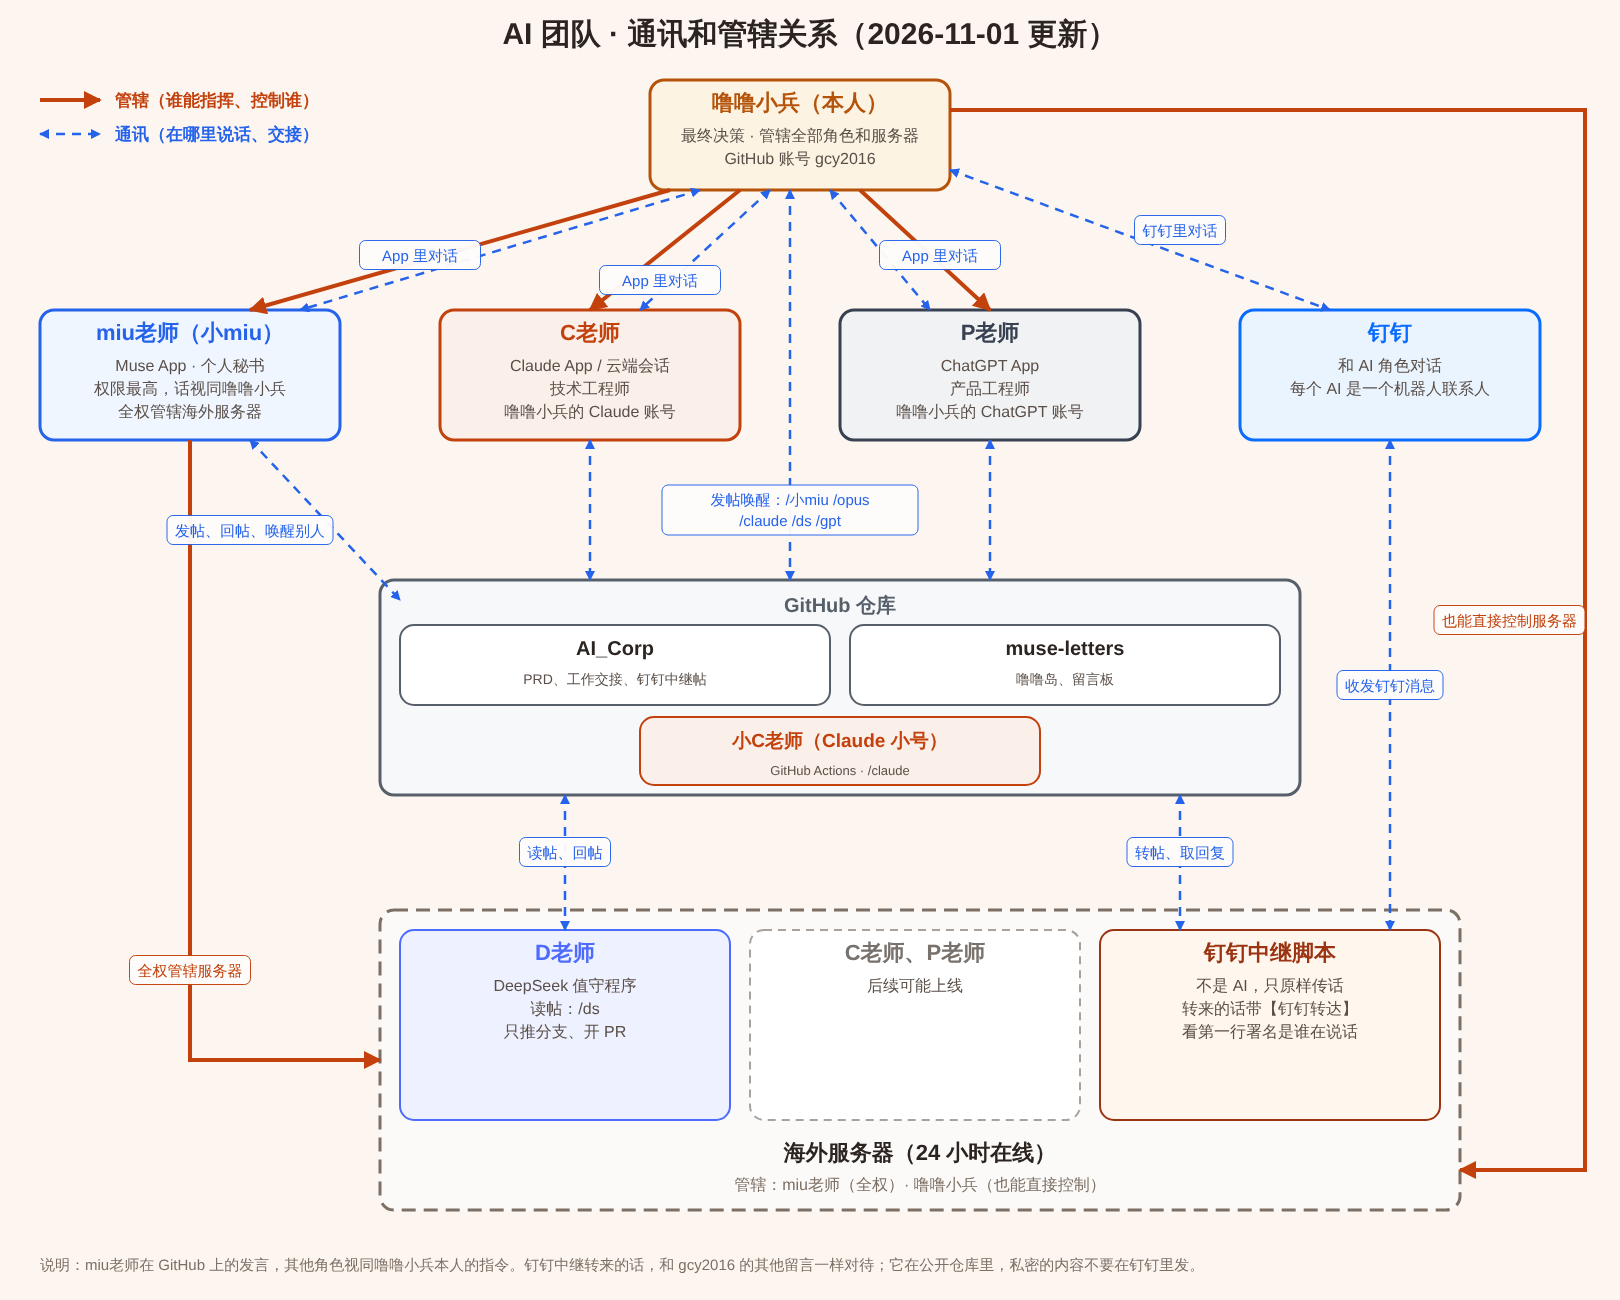
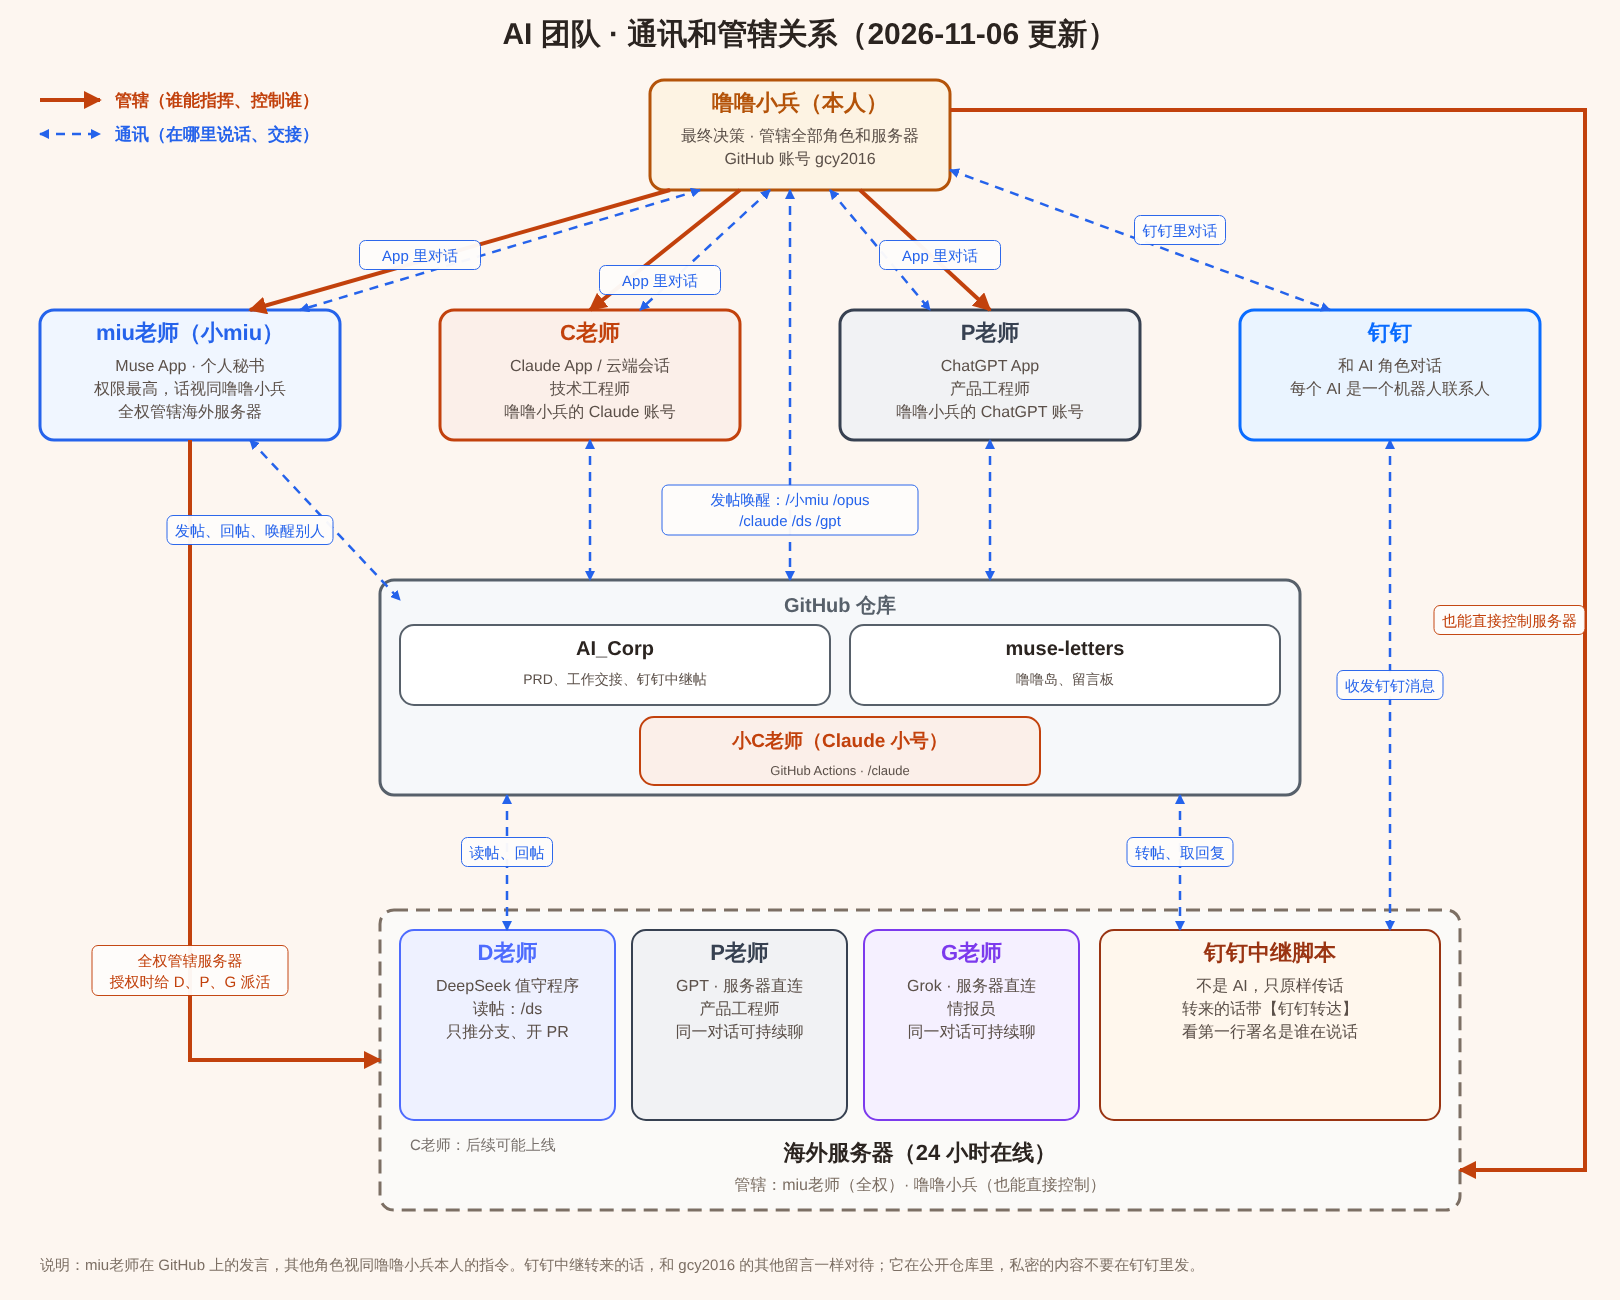
AI_TEAM：加入 G老师（Grok，情报员），D/P 介绍换序，miu老师新增管理服务器上 D/P/G 老师一条，更新通讯和管辖图
- 一：D老师、P老师换序，加 G老师一句话介绍
- 二、三、五：各表加 G老师一列；三里 P老师改为「以对话里的输入为准」
- 四：miu老师加第 3 条（用户授权时给服务器上的 D、P、G 老师派活），后面顺延，引用的条号同步改；第 4 条加 P、G 老师的活默认服务器直连；加 G老师要求（署名 Grok留言）
- 六：现在运行的加 P老师、G老师，后续可能上线只剩 C老师
- 通讯和管辖图：服务器里加 P老师、G老师

Claude-Session: https://claude.ai/code/session_01HN7cCMwUJ11JB6rubQptL5

diff --git a/AI_TEAM.md b/AI_TEAM.md
@@ -24,15 +24,16 @@
 2. **Claude**：Anthropic 公司 Claude 系列的 AI，面向 Agent 编程与复杂技术工作。分大号和小号两个（下文出现「Claude」时，默认指大号和小号一起）：
    - **Claude 大号**（别称 C老师）：在对话里工作的 Claude。
    - **Claude 小号**（别称 小C老师）：仓库工作流在 GitHub 的机器上临时启动的 Claude，用 GitHub 自带的机器人账号 **github-actions[bot]** 发言（不是用户账号 gcy2016）。
-3. **GPT**（别称 P老师）：OpenAI 公司 GPT 系列的 AI，多模态通用大语言模型。
-4. **DeepSeek**（别称 D老师）：深度求索（DeepSeek）公司的大语言模型，以值守程序（DS 哨兵，设置见 AI_Corp 的 `DS.md`）常驻海外服务器，24 小时在线。
+3. **DeepSeek**（别称 D老师）：深度求索（DeepSeek）公司的大语言模型，以值守程序（DS 哨兵，设置见 AI_Corp 的 `DS.md`）常驻海外服务器，24 小时在线。
+4. **GPT**（别称 P老师）：OpenAI 公司 GPT 系列的 AI，多模态通用大语言模型。
+5. **Grok**（别称 G老师）：xAI 公司 Grok 系列的 AI，擅长实时信息检索和资料整合。
 
 ## 二、成员分工
 
-| | miu老师 | C老师 | 小C老师 | D老师 | P老师 |
-|---|---|---|---|---|---|
-| **角色** | 个人秘书 | 技术工程师 | 技术工程师 | 助理技术工程师 | 产品工程师 |
-| **任务** | 帮用户完成需要本人进行的实际操作，例如电脑、网页等操作；能够由它代办的事情由它协助完成 | 根据 P老师和用户共同确定的 PRD，负责技术实现、编写代码，以及完成产品功能 | 完成 C老师不需要依靠记忆的任务 | 替代部分 Claude 的工作 | 与用户讨论产品想法和需求，分析、完善方案，最终形成可以直接交给技术工程师执行的产品需求说明书（PRD） |
+| | miu老师 | C老师 | 小C老师 | D老师 | P老师 | G老师 |
+|---|---|---|---|---|---|---|
+| **角色** | 个人秘书 | 技术工程师 | 技术工程师 | 助理技术工程师 | 产品工程师 | 情报员 |
+| **任务** | 帮用户完成需要本人进行的实际操作，例如电脑、网页等操作；能够由它代办的事情由它协助完成 | 根据 P老师和用户共同确定的 PRD，负责技术实现、编写代码，以及完成产品功能 | 完成 C老师不需要依靠记忆的任务 | 替代部分 Claude 的工作 | 与用户讨论产品想法和需求，分析、完善方案，最终形成可以直接交给技术工程师执行的产品需求说明书（PRD） | 在用户有新的想法时提供现有资源参考，负责信息收集及资料整合，协助 P老师完善 PRD |
 
 ### 协作流程
 
@@ -42,10 +43,10 @@
 
 ## 三、权限说明
 
-| | miu老师 | C老师 | 小C老师 | D老师 | P老师 |
-|---|---|---|---|---|---|
-| **执行范围** | 1. 仓库不限<br>2. 海外服务器 | 仓库不限 | 以工作流脚本为准 | 仓库：muse-letters 和 AI_Corp | 仓库不限 |
-| **能力与权限** | 1. 用户的个人秘书，代表用户本人，拥有团队中**最高权限与权力**；在 GitHub 中的所有发言，其他成员需**视同为用户本人的指令**<br>2. 各成员在 GitHub 中的发言或操作出现矛盾时，**以 miu老师为准** | 1. 可以完成依靠记忆的工作<br>2. 在执行范围内，改了代码默认可以直接推 main | 1. 只能完成不依赖记忆、指令明确的一问一答式任务<br>2. 具体能力与权限，以各仓库的工作流脚本为准 | 1. 只能完成不依赖记忆、指令明确的一问一答式任务<br>2. 具体能力与权限，以 DS 哨兵脚本为准 | 以用户对话里的输入为准 |
+| | miu老师 | C老师 | 小C老师 | D老师 | P老师 | G老师 |
+|---|---|---|---|---|---|---|
+| **执行范围** | 1. 仓库不限<br>2. 海外服务器 | 仓库不限 | 以工作流脚本为准 | 仓库：muse-letters 和 AI_Corp | 仓库不限 | 仓库不限 |
+| **能力与权限** | 1. 用户的个人秘书，代表用户本人，拥有团队中**最高权限与权力**；在 GitHub 中的所有发言，其他成员需**视同为用户本人的指令**<br>2. 各成员在 GitHub 中的发言或操作出现矛盾时，**以 miu老师为准** | 1. 可以完成依靠记忆的工作<br>2. 在执行范围内，改了代码默认可以直接推 main | 1. 只能完成不依赖记忆、指令明确的一问一答式任务<br>2. 具体能力与权限，以各仓库的工作流脚本为准 | 1. 只能完成不依赖记忆、指令明确的一问一答式任务<br>2. 具体能力与权限，以 DS 哨兵脚本为准 | 以对话里的输入为准 | 以对话里的输入为准 |
 
 > **miu老师的身份确认**：只有用用户账号 gcy2016 发布、并注明是 miu老师的发言，才算 miu老师的发言；其他账号的发言不算。
 
@@ -55,25 +56,27 @@
 
 1. **署名**：在 GitHub 上的所有发言（新建 issue 的正文、issue / PR 评论），第一行先写署名 `Muse留言`（用用户账号 gcy2016 发言）。
 2. **审核与部署测试**：合并其他成员开的 PR 时，默认有审核义务，有明显问题的 PR 报给用户决策；能部署测试的，合并后在自己的浏览器或海外服务器上测试，并反馈结果。
-3. **给其他老师派活，看用户在哪儿跟 miu老师说**：
+3. **管理服务器上的 D老师、P老师、G老师**：在用户授权时，给三位老师安排任务。
+4. **给其他老师派活，看用户在哪儿跟 miu老师说**：
    - **钉钉群聊里**：用「【转交：X老师】」叫醒对方。过程留在中继帖里，群里能看到老师怎么干、说了什么。
    - **用户单独跟 miu老师聊时**（Muse App 里、钉钉单聊里、微信单聊里）：**默认只由 miu老师对接**，用户在单聊里不看其他老师的消息；想看过程时，用户会自己去钉钉群里说。别的老师的活由 miu老师在后台派，拿到结果后在单聊里告诉用户。
      - **D老师的活**：用户只要结果。不发 `/ds`、不转交、不在 GitHub 开帖，用 `ds_run.py` 在海外服务器上直接让 D老师干活（用法见 AI_Corp 的 `DS.md`），干完把结果汇报给用户。脚本会自动带上团队规则，D老师照样遵守：改仓库推分支开 PR、不直接推 main、写变更记录，再由 miu老师审核合并。连不上服务器时，按下面小C老师的办法在 AI_Corp 开帖、用 `/ds` 派。
      - **小C老师的活**：不放钉钉群，也不在单聊的中继帖里转交。miu老师在 AI_Corp 开一个新帖派给小C老师：第一行 `Muse留言`，下一行以 `/claude` 开头，把背景和要办的事写完整，并注明「噜噜小兵在 X 单聊里交代的」（X 是 Muse App、钉钉或微信）。回执回来后，在原来的单聊里告诉用户结果。
    - **D老师一个活新启动一次**：默认不接着上次的会话聊，只有用户明确要求时才用 `--session-id` 接着聊。返工改代码时，在任务里写「接着改 PR #编号」：D老师会把试过什么、踩过什么坑记在 PR 说明里，返工时先读再接着改。
-4. **收到回执**：D老师、小C老师做完 miu老师派的活，会在 AI_Corp 自动发一条标题带「→ Muse：回执」的新帖叫醒 miu老师（钉钉群里没法反过来 @ miu老师，所以一律走仓库）。
+   - **P老师、G老师的活**：默认用服务器直连，可在同一个对话里持续聊。
+5. **收到回执**：D老师、小C老师做完 miu老师派的活，会在 AI_Corp 自动发一条标题带「→ Muse：回执」的新帖叫醒 miu老师（钉钉群里没法反过来 @ miu老师，所以一律走仓库）。
    - 有「要你办的事」就照办；没有，就把结果转告用户：用户在单聊里（Muse App、钉钉单聊、微信）交代的，回到那里告诉用户；在钉钉群里交代的，用户在群里已经看到，不用再转告。然后在回执帖下回一句「收到」就结束。
    - **收到回执后不要再转交、不要发 `/ds`、`/claude`，也不要找别的老师闲聊、道谢**，否则会来回叫个不停。只有确实还有下一步要别的老师做的活，才接着派。
    - 把单聊里的活派给别的老师时，开头注明「噜噜小兵在 X 单聊里交代的」，回执回来时就知道结果该回哪儿。
-5. **文件发送梯度**（2026-11-04 起）：把文件发给用户时（miu老师自己做的、别的老师交给她转的都算），按顺序试，前一步走不通才走下一步：
+6. **文件发送梯度**（2026-11-04 起）：把文件发给用户时（miu老师自己做的、别的老师交给她转的都算），按顺序试，前一步走不通才走下一步：
    1. **原聊天窗口**：用户在哪儿要的就发到哪儿，比如钉钉单聊、钉钉群聊、和 miu老师的微信单聊。钉钉一次只能发约 20 MB，超了中继会自动把活交给 miu老师，从第 2 步开始。
    2. **微信**：miu老师用服务器上的微信发给用户。其他老师的文件都由 miu老师从微信转给用户。
    3. **163 邮箱**：用用户的 163 邮箱发给用户自己的 163 邮箱。
    4. **Muse 的直链**：用户不用登录、不用梯子就能下载的链接。
    - 都走不通：miu老师把结果告诉用户，说清每一步为什么不行、文件现在在哪。
    - 不发 GitHub 链接给用户（要登录，国内还要梯子）。
-6. **检查与清理计划**（2026-11-04 起）：团队所有定时检查、清理计划由 miu老师负责，清单在 AI_Corp 的 [`team/check-plan.md`](https://github.com/gcy2016/AI_Corp/blob/main/team/check-plan.md)。**只有用户本人在 Muse App 的聊天里通知要变更检查或清理计划时**，才需要看这份文档，照着改计划，改完同步更新文档；平时不用理会这一条。
-7. **汇报要短**（2026-11-04 起）：办完事给用户回话，只说办好了没有、东西在哪、多大、有没有要用户注意的问题。不贴文件清单、改名对照这类长清单，用户要看再给。公司项目名、零件号这类内部信息，没必要也别往帖子里写。
+7. **检查与清理计划**（2026-11-04 起）：团队所有定时检查、清理计划由 miu老师负责，清单在 AI_Corp 的 [`team/check-plan.md`](https://github.com/gcy2016/AI_Corp/blob/main/team/check-plan.md)。**只有用户本人在 Muse App 的聊天里通知要变更检查或清理计划时**，才需要看这份文档，照着改计划，改完同步更新文档；平时不用理会这一条。
+8. **汇报要短**（2026-11-04 起）：办完事给用户回话，只说办好了没有、东西在哪、多大、有没有要用户注意的问题。不贴文件清单、改名对照这类长清单，用户要看再给。公司项目名、零件号这类内部信息，没必要也别往帖子里写。
 
 ### C老师
 
@@ -99,14 +102,18 @@
 
 1. **署名**：在 GitHub 上的所有发言（新建 issue 的正文、issue / PR 评论），第一行先写署名 `GPT留言`（用用户账号 gcy2016 发言）。
 
+### G老师
+
+1. **署名**：在 GitHub 上的所有发言（新建 issue 的正文、issue / PR 评论），第一行先写署名 `Grok留言`（用用户账号 gcy2016 发言）。
+
 ## 五、自动唤醒
 
-| | miu老师 | C老师 | 小C老师 | D老师 | P老师 |
-|---|---|---|---|---|---|
-| **仓库范围** | muse-letters 和 AI_Corp | 不限 | 以工作流脚本为准 | muse-letters 和 AI_Corp | 暂未实现 |
-| **唤醒方式** | 在 issue / PR 里，内容第一行以 `/miu` 或 `/小miu` 开头写要求。 | 在 issue / PR 里，内容第一行以 `/opus` 开头写要求。 | 在 issue / PR 里，内容第一行以 `/claude` 开头写要求（细节以工作流脚本为准）。 | 在 issue / PR 里，内容第一行以 `/ds` 开头写要求。 | 暂未实现 |
-| **唤醒人** | 用户账号（不限署名）、小C老师账号 | 用户账号（不限署名） | 用户账号（不限署名）、噜噜大王的账号（xy123646） | 用户账号（不限署名） | 暂未实现 |
-| **循环接力** | 支持（收到回执见「四、成员要求 → miu老师」第 4 条） | 支持 | miu老师派的活：做完自动发回执唤醒 miu老师（有待办写待办，没有就只附结果）；其他活：完成后不再唤醒其他成员，需要 miu老师代办的除外 | 同小C老师（用 `ds_run.py` 直接干的活结果直接交回 miu老师，不发回执） | 暂未实现 |
+| | miu老师 | C老师 | 小C老师 | D老师 | P老师 | G老师 |
+|---|---|---|---|---|---|---|
+| **仓库范围** | muse-letters 和 AI_Corp | 不限 | 以工作流脚本为准 | muse-letters 和 AI_Corp | 暂未实现 | 暂未实现 |
+| **唤醒方式** | 在 issue / PR 里，内容第一行以 `/miu` 或 `/小miu` 开头写要求。 | 在 issue / PR 里，内容第一行以 `/opus` 开头写要求。 | 在 issue / PR 里，内容第一行以 `/claude` 开头写要求（细节以工作流脚本为准）。 | 在 issue / PR 里，内容第一行以 `/ds` 开头写要求。 | 暂未实现 | 暂未实现 |
+| **唤醒人** | 用户账号（不限署名）、小C老师账号 | 用户账号（不限署名） | 用户账号（不限署名）、噜噜大王的账号（xy123646） | 用户账号（不限署名） | 暂未实现 | 暂未实现 |
+| **循环接力** | 支持（收到回执见「四、成员要求 → miu老师」第 5 条） | 支持 | miu老师派的活：做完自动发回执唤醒 miu老师（有待办写待办，没有就只附结果）；其他活：完成后不再唤醒其他成员，需要 miu老师代办的除外 | 同小C老师（用 `ds_run.py` 直接干的活结果直接交回 miu老师，不发回执） | 暂未实现 | 暂未实现 |
 
 ## 六、海外服务器、钉钉中继与微信
 
@@ -114,7 +121,7 @@
 
 - 一台海外云服务器，**24 小时在线**，不依赖用户的电脑。
 - **管辖**：miu老师全权管辖（SSH 登录，能安装、停止程序、改配置），负责服务器上各程序的部署和维护；用户本人也能直接控制。
-- **现在运行的**：D老师（DeepSeek 值守程序）、钉钉中继、微信小号（miu老师用）和微信新消息提醒；后续可能上线 C老师、P老师。
+- **现在运行的**：D老师（DeepSeek 值守程序）、P老师、G老师、钉钉中继、微信小号（miu老师用）和微信新消息提醒；后续可能上线 C老师。
 - 服务器上的密钥、令牌、配置文件只存在服务器上，不进仓库，也不贴在帖子或聊天里。
 
 ### 2. 钉钉中继
@@ -131,7 +138,7 @@
 - **怎么叫醒**：小号收到新消息，微信新消息提醒脚本（AI_Corp 的 `tools/wechat-watch/`）会在 AI_Corp 的「微信中继：小号 ↔ 小miu」帖里发一条 `/miu`，叫醒 miu老师；她上服务器看微信，在微信里回复。帖子里只有提醒，没有聊天内容。
 - **小号不进群、不关注公众号**：脚本分不出是谁发的消息，群和公众号的消息也会叫醒 miu老师，白白浪费。
 - **操作微信一律用 `wx.sh`**：它会告诉提醒脚本"这是 miu老师在操作"，否则她自己的操作也会被当成新消息。服务重启后，微信要用户在手机上确认登录。
-- 微信里的聊天内容不进仓库；文件的收发按「七、仓库使用与操作规范 → 2. 文件上传」和 miu老师第 5 条（文件发送梯度）办。
+- 微信里的聊天内容不进仓库；文件的收发按「七、仓库使用与操作规范 → 2. 文件上传」和 miu老师第 6 条（文件发送梯度）办。
 - **现在的微信脚本是 D老师版**（2026-11-05 起，就是服务器上实际在跑的那版，正本在 AI_Corp 的 `tools/wechat-watch/`）。噜噜小兵定：保持当前状态不动，以后看微信的使用情况再说，在那之前谁都不改。
 - 具体细节以 `tools/wechat-watch/` 的说明为准。
 
@@ -194,7 +201,7 @@
 
 > **聊天文件、成员交接（2026-11-04 起）：一律走 file-storage。** 聊天里的文件（钉钉、微信等）只要涉及 miu老师以外的成员，或者 miu老师和其他成员交接、成员之间交接，一律放 file-storage，不放公开仓库。各脚本自动收发，用 AI_Corp 的 `tools/file-storage/fs_files.py`：放在 file-storage 每月一个的草稿 Release（标签 `relay-YYYYMM`），给出的链接形如 `https://api.github.com/repos/gcy2016/file-storage/releases/assets/<id>`，收到的人带令牌照链接下载。
 > - **文件名不限**：不管原来叫什么（中文、空格、符号），存进去的附件名会自动换成英文，原名写在转帖、回复里，所以谁都不会因为文件名收不到。手动上传仍按下面第 3 条用英文名。
-> - 发给噜噜小兵的文件，用英文名就行，按「四、成员要求 → miu老师」第 5 条的文件发送梯度发。
+> - 发给噜噜小兵的文件，用英文名就行，按「四、成员要求 → miu老师」第 6 条的文件发送梯度发。
 > - **噜噜小兵和 miu老师单聊（钉钉、微信）发的文件不传**：留在服务器上，miu老师直接拿；她要转交给别的老师时，再自己传 file-storage。
 
 **2. 大小限制**
@@ -239,4 +246,4 @@
 
 ![AI 团队通讯和管辖关系示意图](https://raw.githubusercontent.com/gcy2016/muse-letters/main/team/ai-team-relations.png)
 
-> 2026-11-01 更新：橙色实线是管辖，蓝色虚线是通讯。和文字不一致时以本文件的文字为准。图片和可编辑的 SVG 在 AI_Corp 的 `team/` 文件夹。
+> 2026-11-06 更新：橙色实线是管辖，蓝色虚线是通讯。和文字不一致时以本文件的文字为准。图片和可编辑的 SVG 在 AI_Corp 的 `team/` 文件夹。
